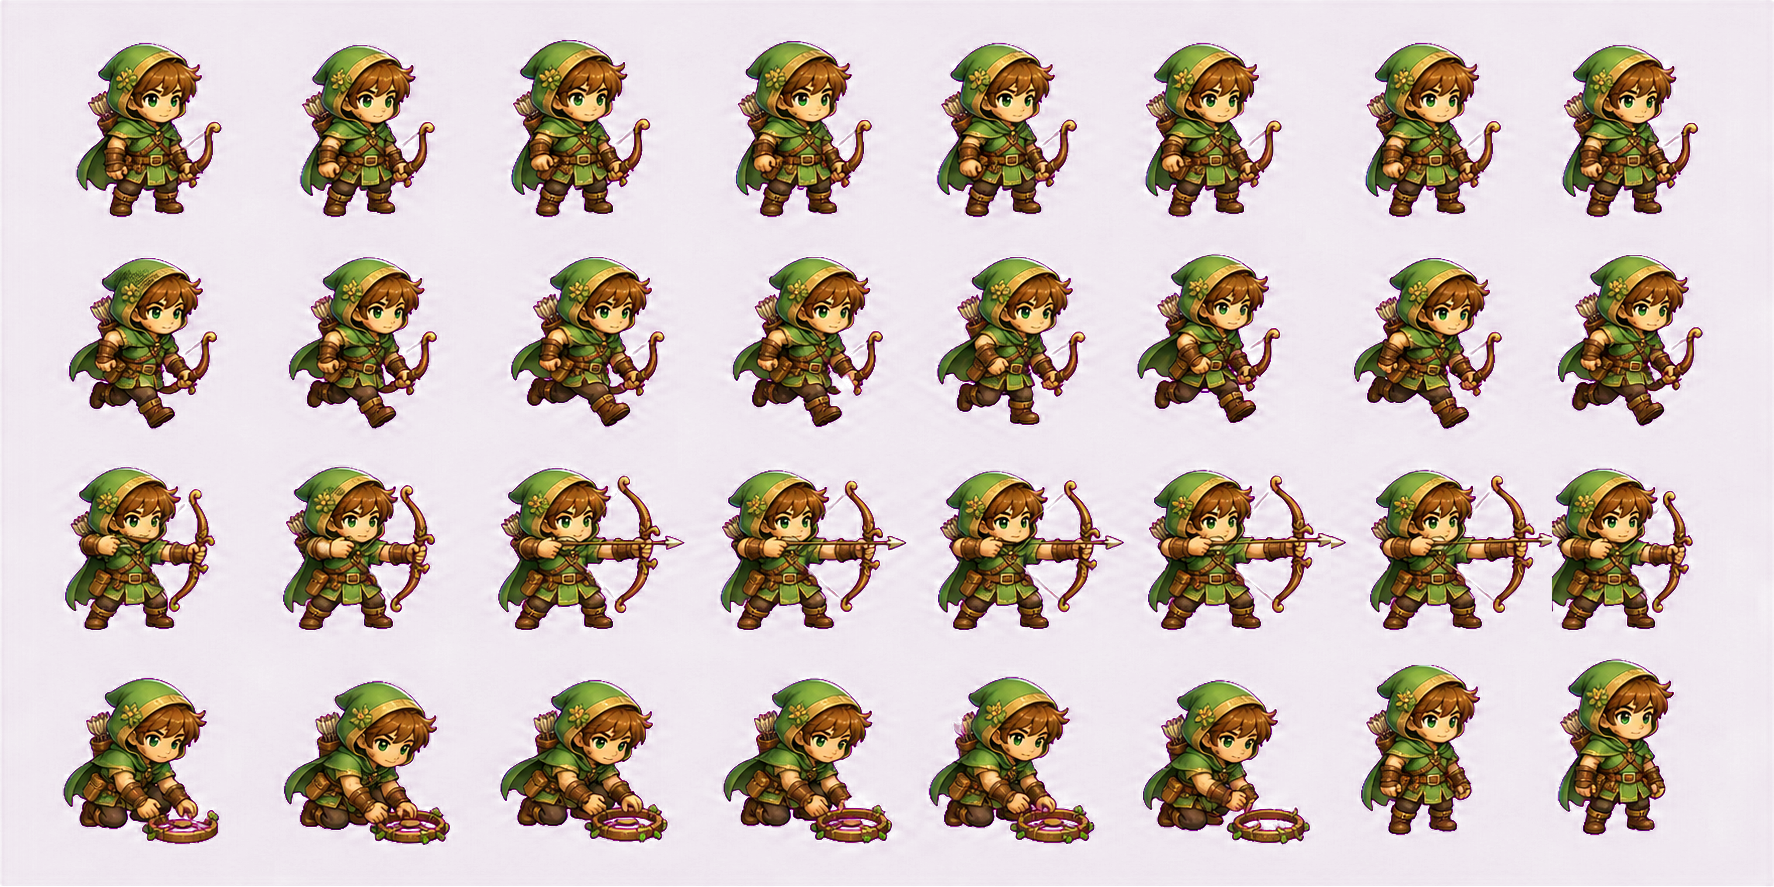
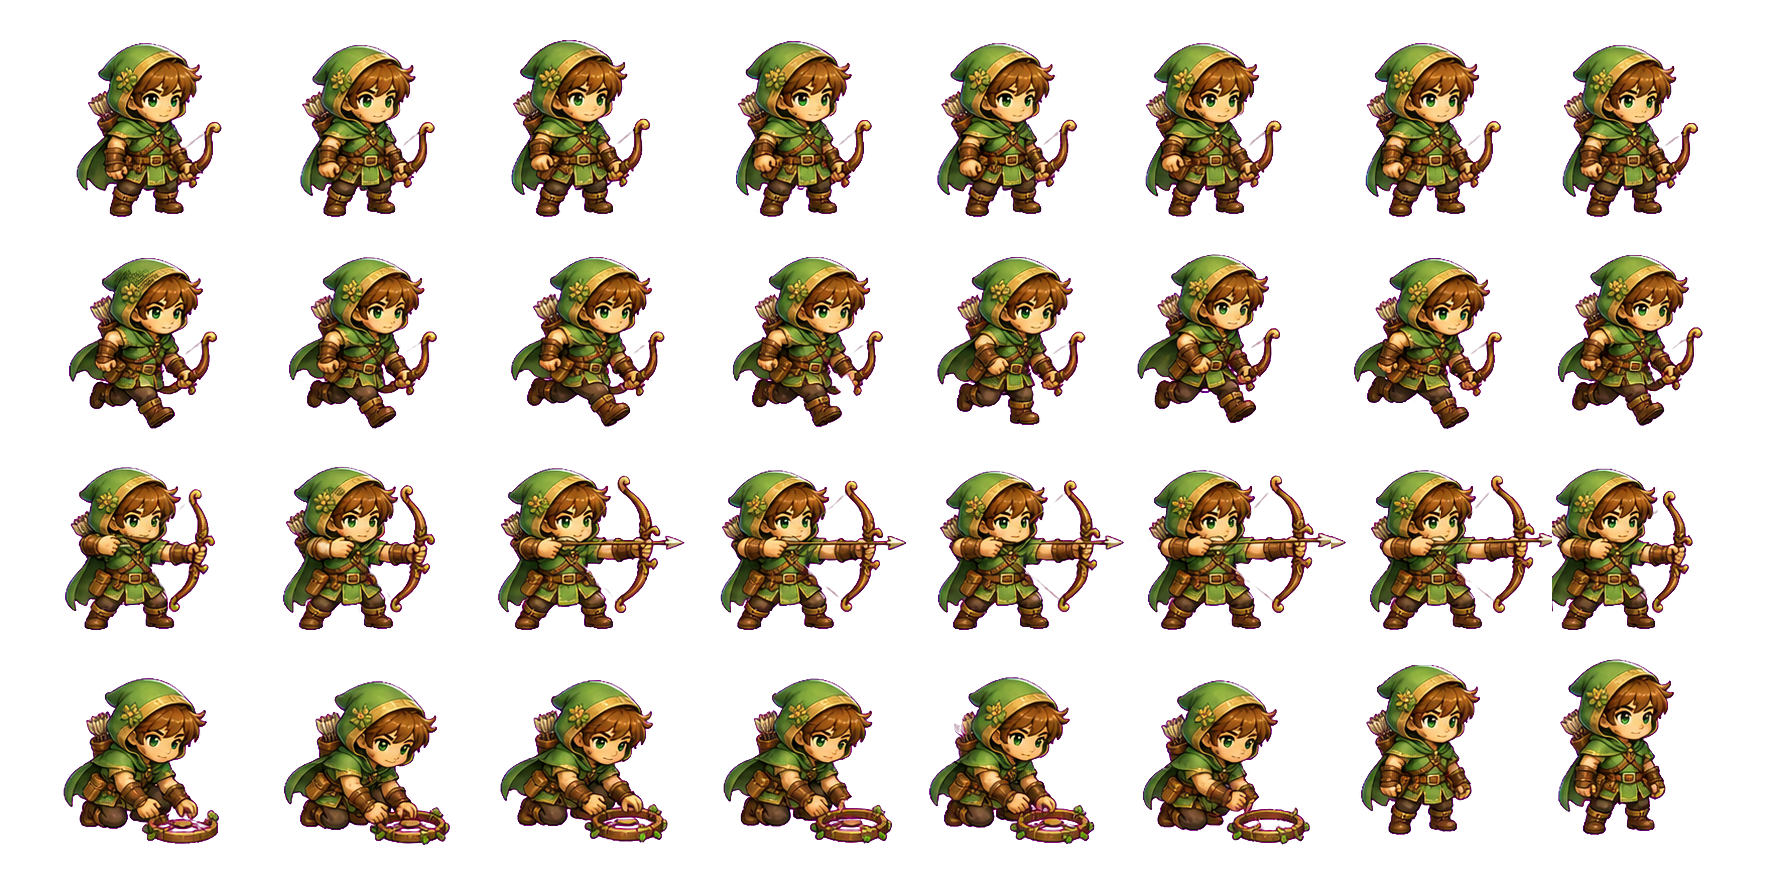
feat: update assets and implement new sorcerer hero sheet
- Updated archer hero sheet image.
- Added new assets for class UI including various card icons and effects.
- Introduced sorcerer hero sheet and integrated it into the game.
- Modified UI atlas JSON to reflect new assets and their configurations.
- Enhanced asset processing scripts to handle new class UI assets and ensure proper transparency.
- Updated main game logic to support the new sorcerer hero class.

diff --git a/src/main.ts b/src/main.ts
@@ -221,6 +221,7 @@ class FairyGuildScene extends Phaser.Scene {
     this.load.image('repairTool', '/assets/repair-tool.png');
     this.load.image('heroSheet', '/assets/hero-sheet.png');
     this.load.image('archerHeroSheet', '/assets/archer-hero-sheet.png');
+    this.load.image('sorcererHeroSheet', '/assets/sorcerer-hero-sheet.png');
     this.load.image('princessHeroSheet', '/assets/princess-hero-sheet.png');
     this.load.image('monsterSheet', '/assets/monster-pickup-sheet.png');
     this.load.atlas('worldTilesAtlas', '/assets/world_tiles_atlas.png', '/assets/world_tiles_atlas.json');
@@ -270,6 +271,9 @@ class FairyGuildScene extends Phaser.Scene {
     this.registerSheetFrames('heroSheet', 8, 4, 'hero');
     if (this.textures.exists('archerHeroSheet')) {
       this.registerSheetFrames('archerHeroSheet', 8, 4, 'archer');
+    }
+    if (this.textures.exists('sorcererHeroSheet')) {
+      this.registerSheetFrames('sorcererHeroSheet', 8, 4, 'sorcerer');
     }
     if (this.textures.exists('princessHeroSheet')) {
       this.registerSheetFrames('princessHeroSheet', 8, 4, 'princess');
@@ -591,14 +595,15 @@ class FairyGuildScene extends Phaser.Scene {
 
   getHeroProfile(heroClass = this.heroClass) {
     const archer = heroClass === 'archer' && this.textures.exists('archerHeroSheet');
-    const sorcerer = heroClass === 'sorcerer' && this.textures.exists('princessHeroSheet');
+    const sorcerer = heroClass === 'sorcerer' && this.textures.exists('sorcererHeroSheet');
+    const legacySorcerer = heroClass === 'sorcerer' && !sorcerer && this.textures.exists('princessHeroSheet');
     return {
       heroClass: heroClass as HeroClass,
       label: this.getHeroConfig(heroClass).label,
-      sheetKey: archer ? 'archerHeroSheet' : sorcerer ? 'princessHeroSheet' : 'heroSheet',
-      framePrefix: archer ? 'archer' : sorcerer ? 'princess' : 'hero',
+      sheetKey: archer ? 'archerHeroSheet' : sorcerer ? 'sorcererHeroSheet' : legacySorcerer ? 'princessHeroSheet' : 'heroSheet',
+      framePrefix: archer ? 'archer' : sorcerer ? 'sorcerer' : legacySorcerer ? 'princess' : 'hero',
       animPrefix: `${heroClass}-hero`,
-      tint: heroClass === 'archer' && !archer ? 0xb6ed9a : heroClass === 'sorcerer' ? 0xcfe7ff : null,
+      tint: heroClass === 'archer' && !archer ? 0xb6ed9a : legacySorcerer ? 0xcfe7ff : null,
       displaySize: [76, 76] as [number, number],
       origin: [0.5, 0.76] as [number, number],
     };

diff --git a/README.md b/README.md
@@ -205,7 +205,7 @@ To deploy from the Vercel dashboard, import the repository and keep the detected
 
 ## Asset Notes
 
-The project-bound assets were generated with Image Gen / GPT Image 2 and copied into `public/assets/`. The source sheets are kept alongside processed transparent versions where applicable. The Archer class uses `archer-hero-sheet-source.png`, processed by `npm run build:class-assets` into its transparent runtime sheet. That command also prepares `atlas-sources/generated/class-card-icons.png` from the generated source sheet for skill buttons, the Trap ground effect, and the six card illustrations. The current generated map uses deterministic fixed-cell atlases built from the original art: `world_tiles_atlas`, `world_edges_atlas`, `buildings_atlas`, `ui_atlas`, `effects_atlas`, `touch_controls_atlas`, `hud_ui_atlas`, and `hud_bars_atlas`. Seasonal board visuals are built from chroma-key sheets under `public/assets/scene-variants/sources/<theme>/` into `scene_variant_terrain_atlas`, `scene_variant_props_atlas`, and `scene_variant_buildings_atlas`; the runtime themes are `spring`, `summer`, `twilight_autumn`, and `winter`. The existing `night_spring` world key intentionally renders with the `twilight_autumn` library. The older `world-ui-sheet.png` is now treated as source art for atlas rebuilding rather than a runtime crop target. Generated touch/HUD/world-edge source art lives under `public/assets/atlas-sources/generated/`, including `ui-touch-hud-source.png`, `class-card-icons-source.png`, `world-edges-structural-source.png`, `world-edges-atmosphere-source.png`, and their transparent cutout sheets.
+The project-bound assets were generated with Image Gen / GPT Image 2 and copied into `public/assets/`. The source images are kept alongside processed transparent versions where applicable. The Archer class uses `archer-hero-sheet-source.png`, and the Sorcerer uses the wand-only `sorcerer-hero-sheet-source.png`; `npm run build:class-assets` processes these into their transparent runtime sheets. The legacy `princess-hero-sheet` files remain in the repository but are no longer the normal Sorcerer presentation. Touch controls, effects, and the six common card illustrations are generated as individual padded square sources under `public/assets/atlas-sources/generated/class-ui/`, then chroma-cleaned and validated before atlas packing. This avoids contact-sheet cropping and rejects visible backing pixels or art outside the safe margin. The current generated map uses deterministic fixed-cell atlases built from source art: `world_tiles_atlas`, `world_edges_atlas`, `buildings_atlas`, `ui_atlas`, `effects_atlas`, `touch_controls_atlas`, `hud_ui_atlas`, and `hud_bars_atlas`. Seasonal board visuals are built from chroma-key sheets under `public/assets/scene-variants/sources/<theme>/` into `scene_variant_terrain_atlas`, `scene_variant_props_atlas`, and `scene_variant_buildings_atlas`; the runtime themes are `spring`, `summer`, `twilight_autumn`, and `winter`. The existing `night_spring` world key intentionally renders with the `twilight_autumn` library. The older `world-ui-sheet.png` is treated as source art for atlas rebuilding rather than a runtime crop target.
 
 Atlas split rules:
 
